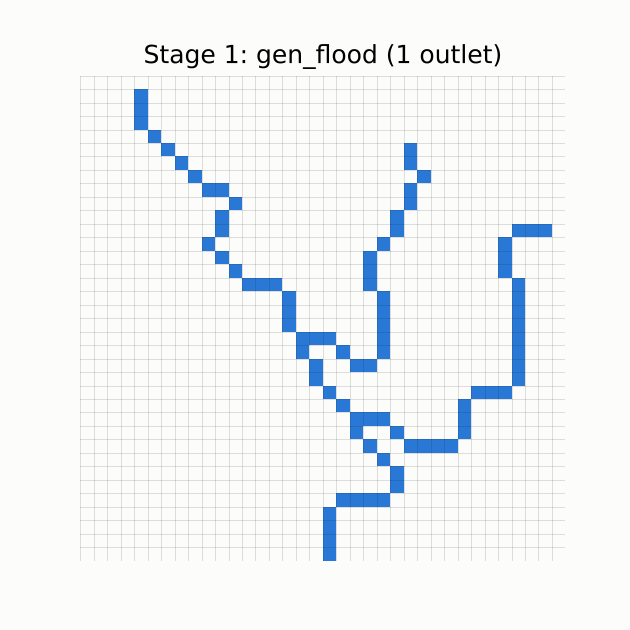
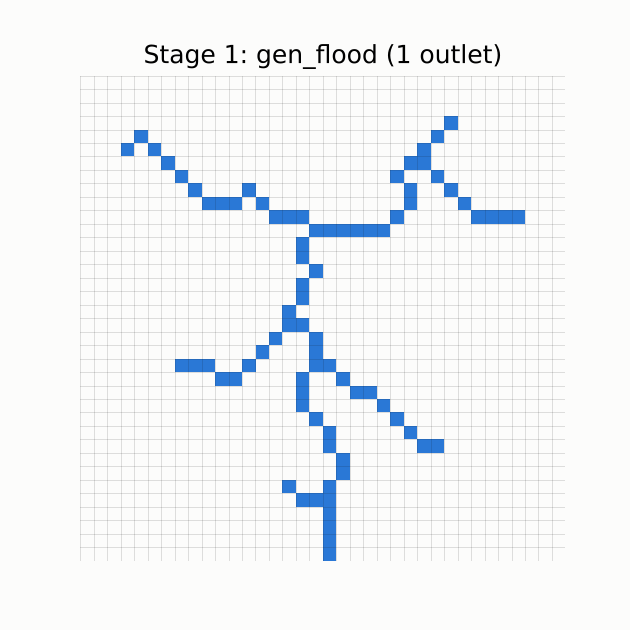
gen_flood: no rivers along the map edge or the coast
The boundary -- the map's outer ring and, with a domain, the coast -- is
a divide except at the outlets: its cells are left out of the flood, a
steep rim just inside it turns flow inland, and the rim opens only in a
narrow gap along each outlet's heading.  The round funnel at each outlet
becomes a valley running inland along the heading, so tributaries join
the river inland instead of sliding along the boundary into the mouth.

Redrawn docs/images/*_flood.png.

Claude-Session: https://claude.ai/code/session_01K9F12EKWCo2kUdrxjG52ma

Changed region(s): [[0.181, 0.1206, 0.6635, 0.8143], [0.6032, 0.181, 0.8746, 0.7238]]

diff --git a/experiments/flood.py b/experiments/flood.py
@@ -21,8 +21,9 @@ HOW IT WORKS
   4. thinned to 1 px with mini.rejoin_after_thinning, like gen_headward.
 
 FIXES FOR WHAT A PLAIN FLOOD GETS WRONG (each measured at n=128, seeds 1-10)
-  * rim: the map edge is a divide except at the outlets; without a slight
-    rim, trunks run along the edge;
+  * boundary: the map's outer ring and the coast are divides except at the
+    outlets; their cells are left out of the flood, so no river runs on
+    them, and a slight rim keeps trunks from running just inside them;
   * edge_a / edge_l: a head sits about a hillslope length below a divide, so
     near the edge the threshold drops; otherwise the edge band is left
     undissected and the stage 2 surface gets a high frame;
@@ -31,9 +32,8 @@ FIXES FOR WHAT A PLAIN FLOOD GETS WRONG (each measured at n=128, seeds 1-10)
     starts every root with a stroke); otherwise the outlet with the lowest
     pass takes most of the map and others drain a single cell.
 
-`domain` is accepted (the flood stays on the land) but the rim, the edge
-threshold and the funnel know only the rectangle's edges, not a coast;
-untested on shaped maps.
+With `domain`, the coast is part of that boundary: rivers reach the sea only
+at the outlets.
 """
 import os
 import sys
@@ -218,9 +218,10 @@ def _drop_upstream(raw, cut, parent, depth, roots):
 
 def gen_flood(rng, n=128, roots=None, shape=None, domain=None, labels=False,
               ell=5.0, floor_px=4.0, corridor=1.0, acc_ref=ACC_REF_NET,
-              p50=None, smin=4.0, beta=0.5, fine=1.5, fine_s=1.5, rim=0.8,
-              rim_l=3.0, edge_a=0.9, edge_l=8.0, funnel=10.0, funnel_l=12.0,
-              stem=10, stem_cut=3, floor_rounds=2):
+              p50=None, smin=4.0, beta=0.5, fine=1.5, fine_s=1.5, rim=4.0,
+              rim_l=1.5, edge_a=0.9, edge_l=8.0, funnel=10.0, funnel_l=12.0,
+              stem=10, stem_cut=3, floor_rounds=2, rim_open=4.0,
+              funnel_w=4.0):
     """Stage 1 by priority flood.  Same roots / shape / domain / labels
     contract as mini.gen_headward: returns the 1-px network, and with
     labels=True also the int16 basin raster (-1 off the map, 0 land, k > 0
@@ -247,8 +248,15 @@ def gen_flood(rng, n=128, roots=None, shape=None, domain=None, labels=False,
         g = ndi.gaussian_filter(rng.standard_normal((H, W)), fine_s)
         h += fine * g / g.std()
     if funnel:
-        for (r, c, *_rest) in roots:
-            h -= funnel * np.exp(-np.hypot(iy - int(r), ix - int(c)) / funnel_l)
+        # each outlet sits at the foot of a valley that runs INLAND along its
+        # heading (deep at the mouth, fading over funnel_l, funnel_w wide).
+        # A round bowl would do for ownership, but inside the rim its lowest
+        # path is a band along the boundary, and tributaries slide down it.
+        for (r, c, a0, *_rest) in roots:
+            t = (iy - r) * np.sin(a0) + (ix - c) * np.cos(a0)
+            lat = np.abs(-(iy - r) * np.cos(a0) + (ix - c) * np.sin(a0))
+            h -= (funnel * np.exp(-np.maximum(t, 0.0) / funnel_l)
+                  * np.exp(-(lat / funnel_w) ** 2))
     if stem_cut:
         # a few px cut straight in along the heading make the outlet own its
         # valley mouth; the rest of the stem follows the flood tree (below),
@@ -259,18 +267,39 @@ def gen_flood(rng, n=128, roots=None, shape=None, domain=None, labels=False,
                 cc = int(round(c + k * np.cos(a0)))
                 if 0 <= rr < H and 0 <= cc < W:
                     h[rr, cc] = -1e3 + k
-    edge = np.ones((H, W), bool)
-    edge[1:-1, 1:-1] = False
+    # THE BOUNDARY: the land cells on the map's outer ring or next to the
+    # sea.  Except at the outlets it is a divide -- a map edge and a coast
+    # alike -- so no river may run on it: those cells are left out of the
+    # flood altogether, and the rim and the head threshold below follow it.
+    land = np.ones((H, W), bool) if mask is None else mask.copy()
+    bnd = land & ~ndi.binary_erosion(np.pad(land, 1), np.ones((3, 3)))[1:-1, 1:-1]
+    out_cells = np.zeros((H, W), bool)
+    for (r, c, *_rest) in roots:
+        out_cells[int(r), int(c)] = True
     if rim:
-        e = edge.copy()
-        for (r, c, *_rest) in roots:
-            e[max(0, int(r) - 2):int(r) + 3, max(0, int(c) - 2):int(c) + 3] = False
-        h += rim * np.exp(-ndi.distance_transform_edt(~e) / rim_l)
+        # a steep rim just inside the boundary turns flow inland at once, so
+        # no river runs alongside an edge or a coast.  It opens smoothly at
+        # each outlet (within ~rim_open px) like a valley mouth: a gap that is
+        # too wide lets the funnel draw a channel along the boundary into the
+        # outlet, and none at all leaves a bank across the mouth that sends
+        # the land behind it to another outlet.
+        de = ndi.distance_transform_edt(~(bnd & ~out_cells))
+        # the opening is a narrow gap along each outlet's heading, not a
+        # disc: a disc lets tributaries slide in along the boundary from
+        # either side, while a gap only lets the river leave head-on
+        dmin = np.full((H, W), np.inf)
+        for (r, c, a0, *_rest) in roots:
+            t = np.clip((iy - r) * np.sin(a0) + (ix - c) * np.cos(a0),
+                        0.0, 2.0 * rim_open)
+            dmin = np.minimum(dmin, np.hypot(iy - (r + t * np.sin(a0)),
+                                             ix - (c + t * np.cos(a0))))
+        opening = 1.0 - np.exp(-(dmin / 1.5) ** 2)
+        h += rim * np.exp(-(de - 1.0) / rim_l) * opening * land
 
-    parent = flood_tree(h, roots, mask)
+    parent = flood_tree(h, roots, land & ~(bnd & ~out_cells))
     depth = depth_of(parent)
     acc = catchment_sum(parent, depth)
-    thr = (1.0 - edge_a * np.exp(-ndi.distance_transform_edt(~edge)
+    thr = (1.0 - edge_a * np.exp(-ndi.distance_transform_edt(~bnd)
                                  / edge_l)).ravel()
 
     # the stem cells: from each outlet along the largest tributary
@@ -326,15 +355,6 @@ def gen_flood(rng, n=128, roots=None, shape=None, domain=None, labels=False,
         fl = _floor_of(raw, parent, depth, W, floor_px,
                        corridor * FLOOR_REACH, acc_ref)
         raw = raw_net(Ac, catchment_sum(parent, depth, ~fl.ravel()))
-    # the outermost ring is a divide (gen_headward never grows into it): a
-    # head that runs out onto it is dropped with the little upstream of it.
-    # Only near heads (a few channel cells upstream) -- a trunk that touches
-    # the ring just above its outlet keeps its whole basin.
-    ring = edge.ravel() & raw.ravel()
-    ring &= catchment_sum(parent, depth, raw.ravel()) <= 2 * float(ell)
-    ring &= ~stem_cells                    # never an outlet or its stem
-    if ring.any():
-        raw = _drop_upstream(raw, ring, parent, depth, roots)
     if corridor:
         raw = _corridor(raw, parent, depth, W, roots, floor_px,
                         corridor * FLOOR_REACH, acc_ref)
